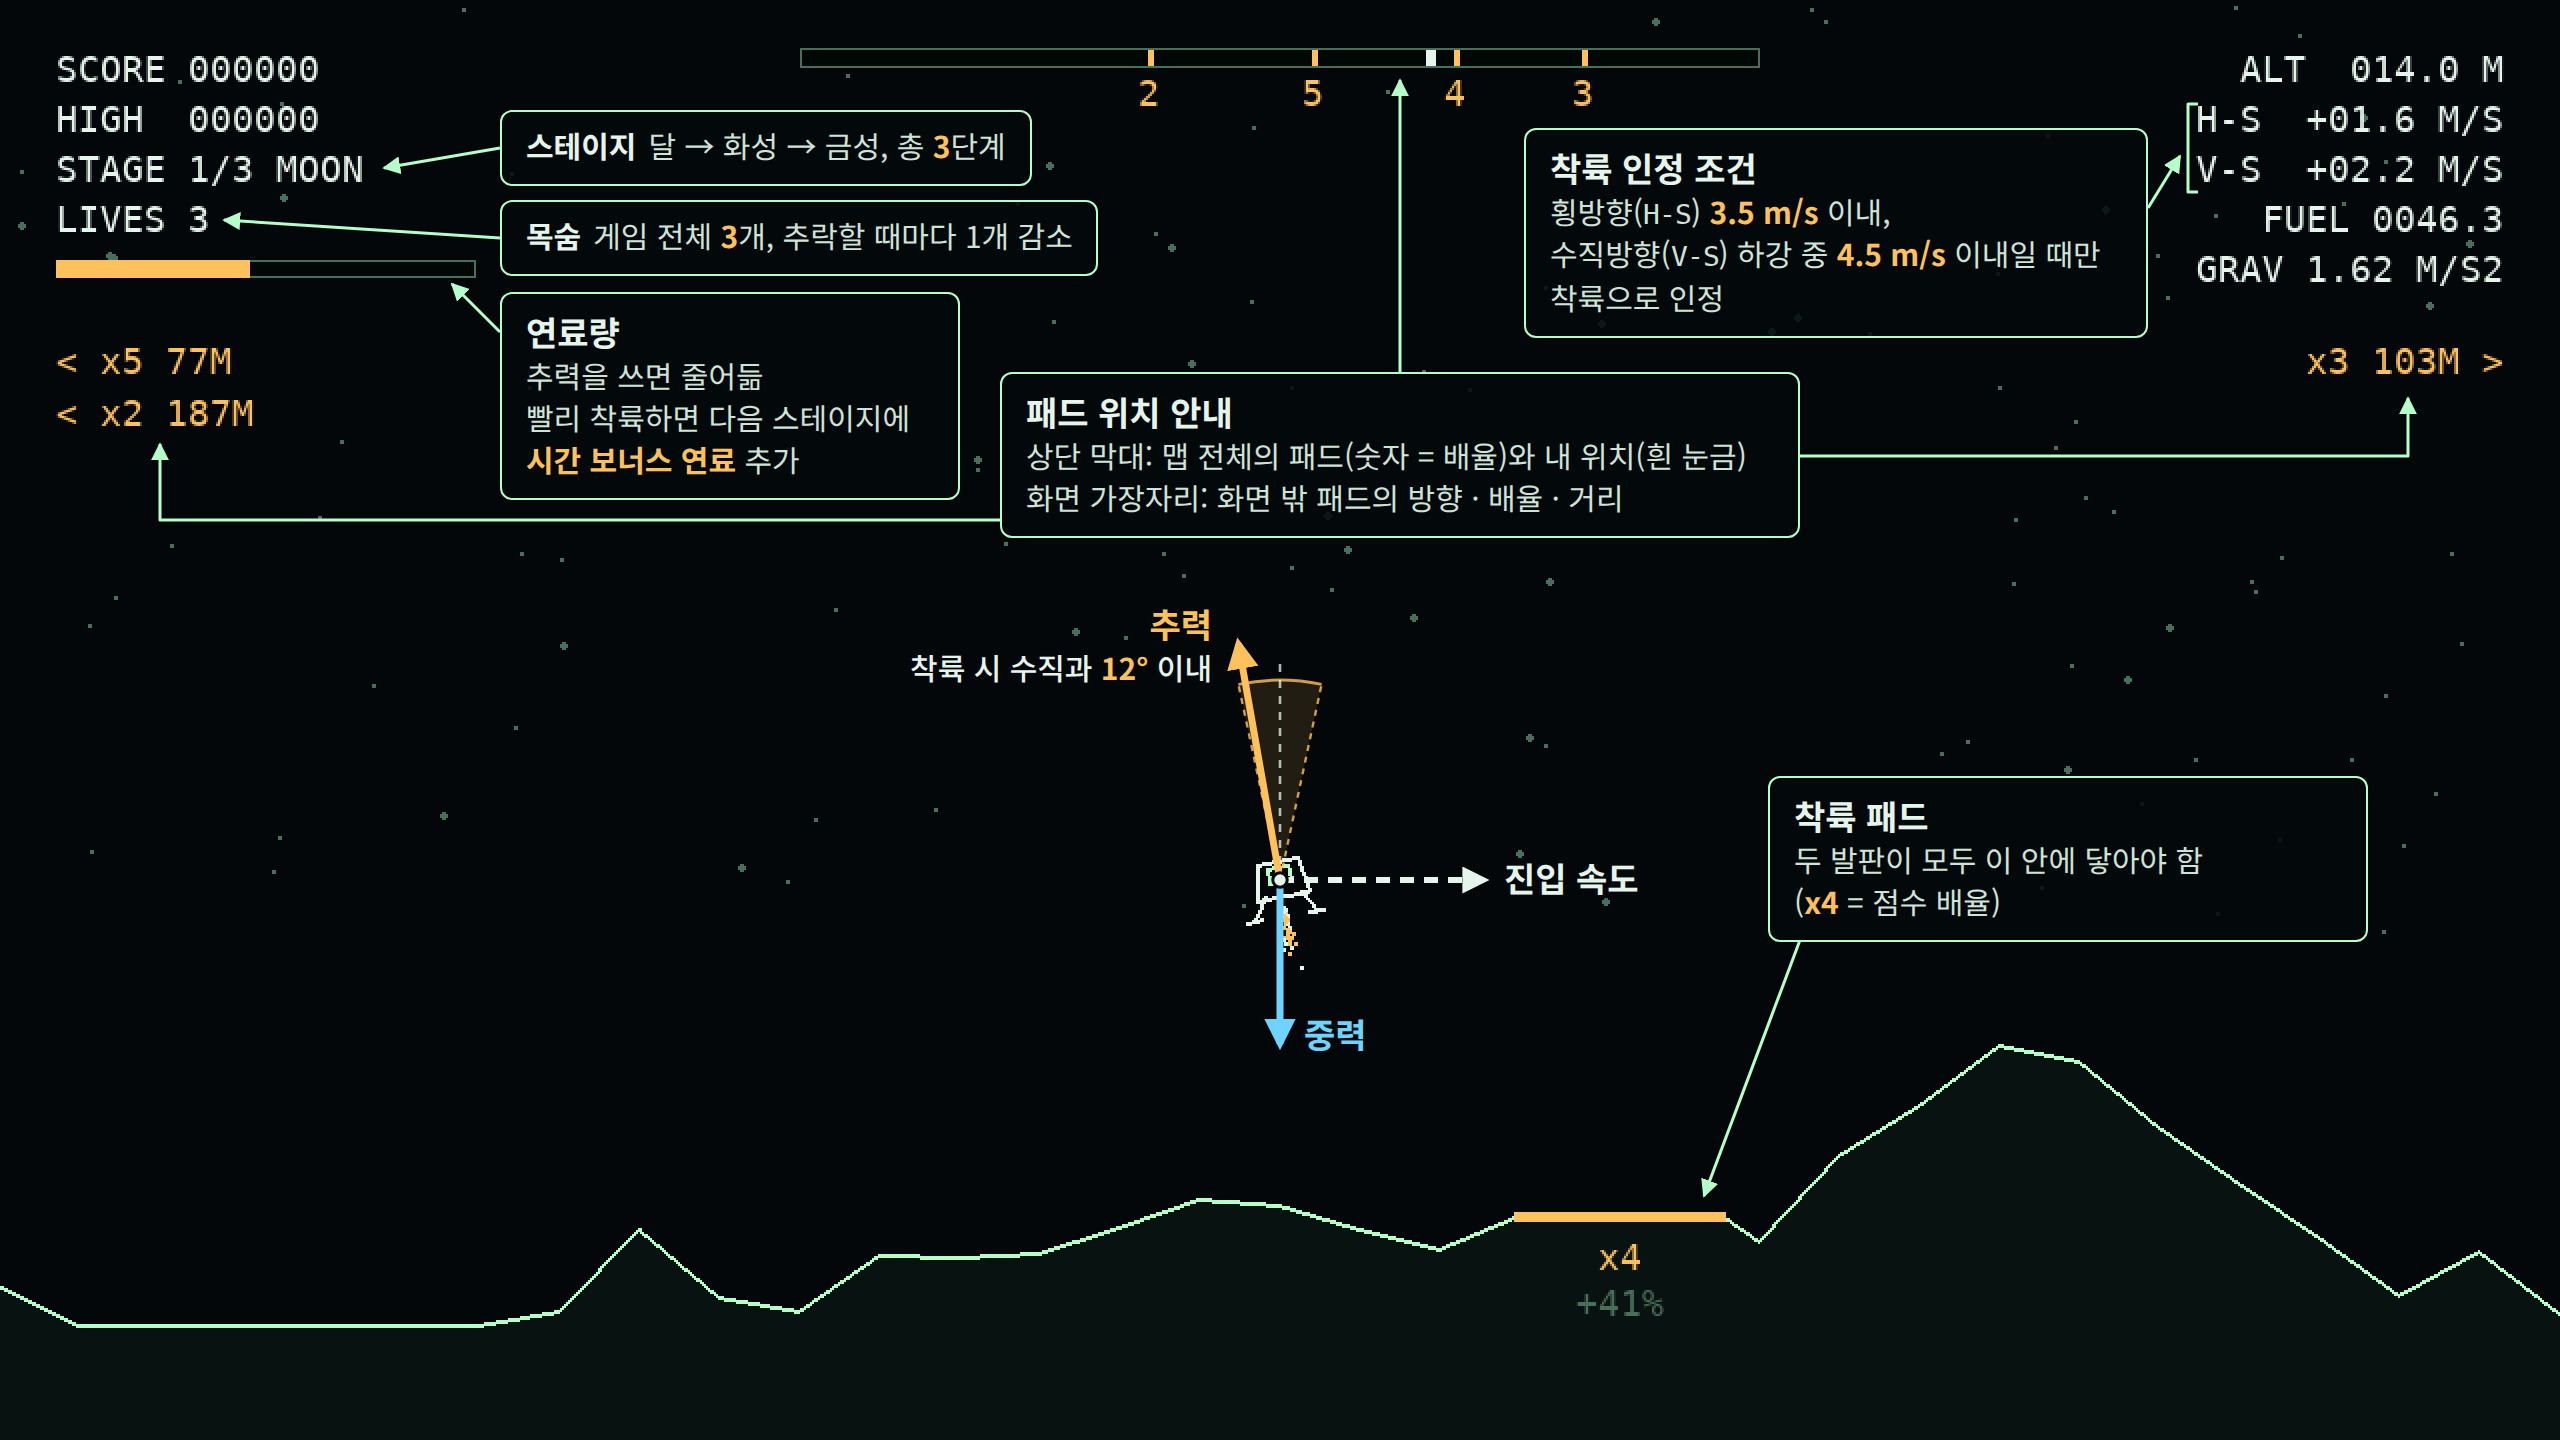
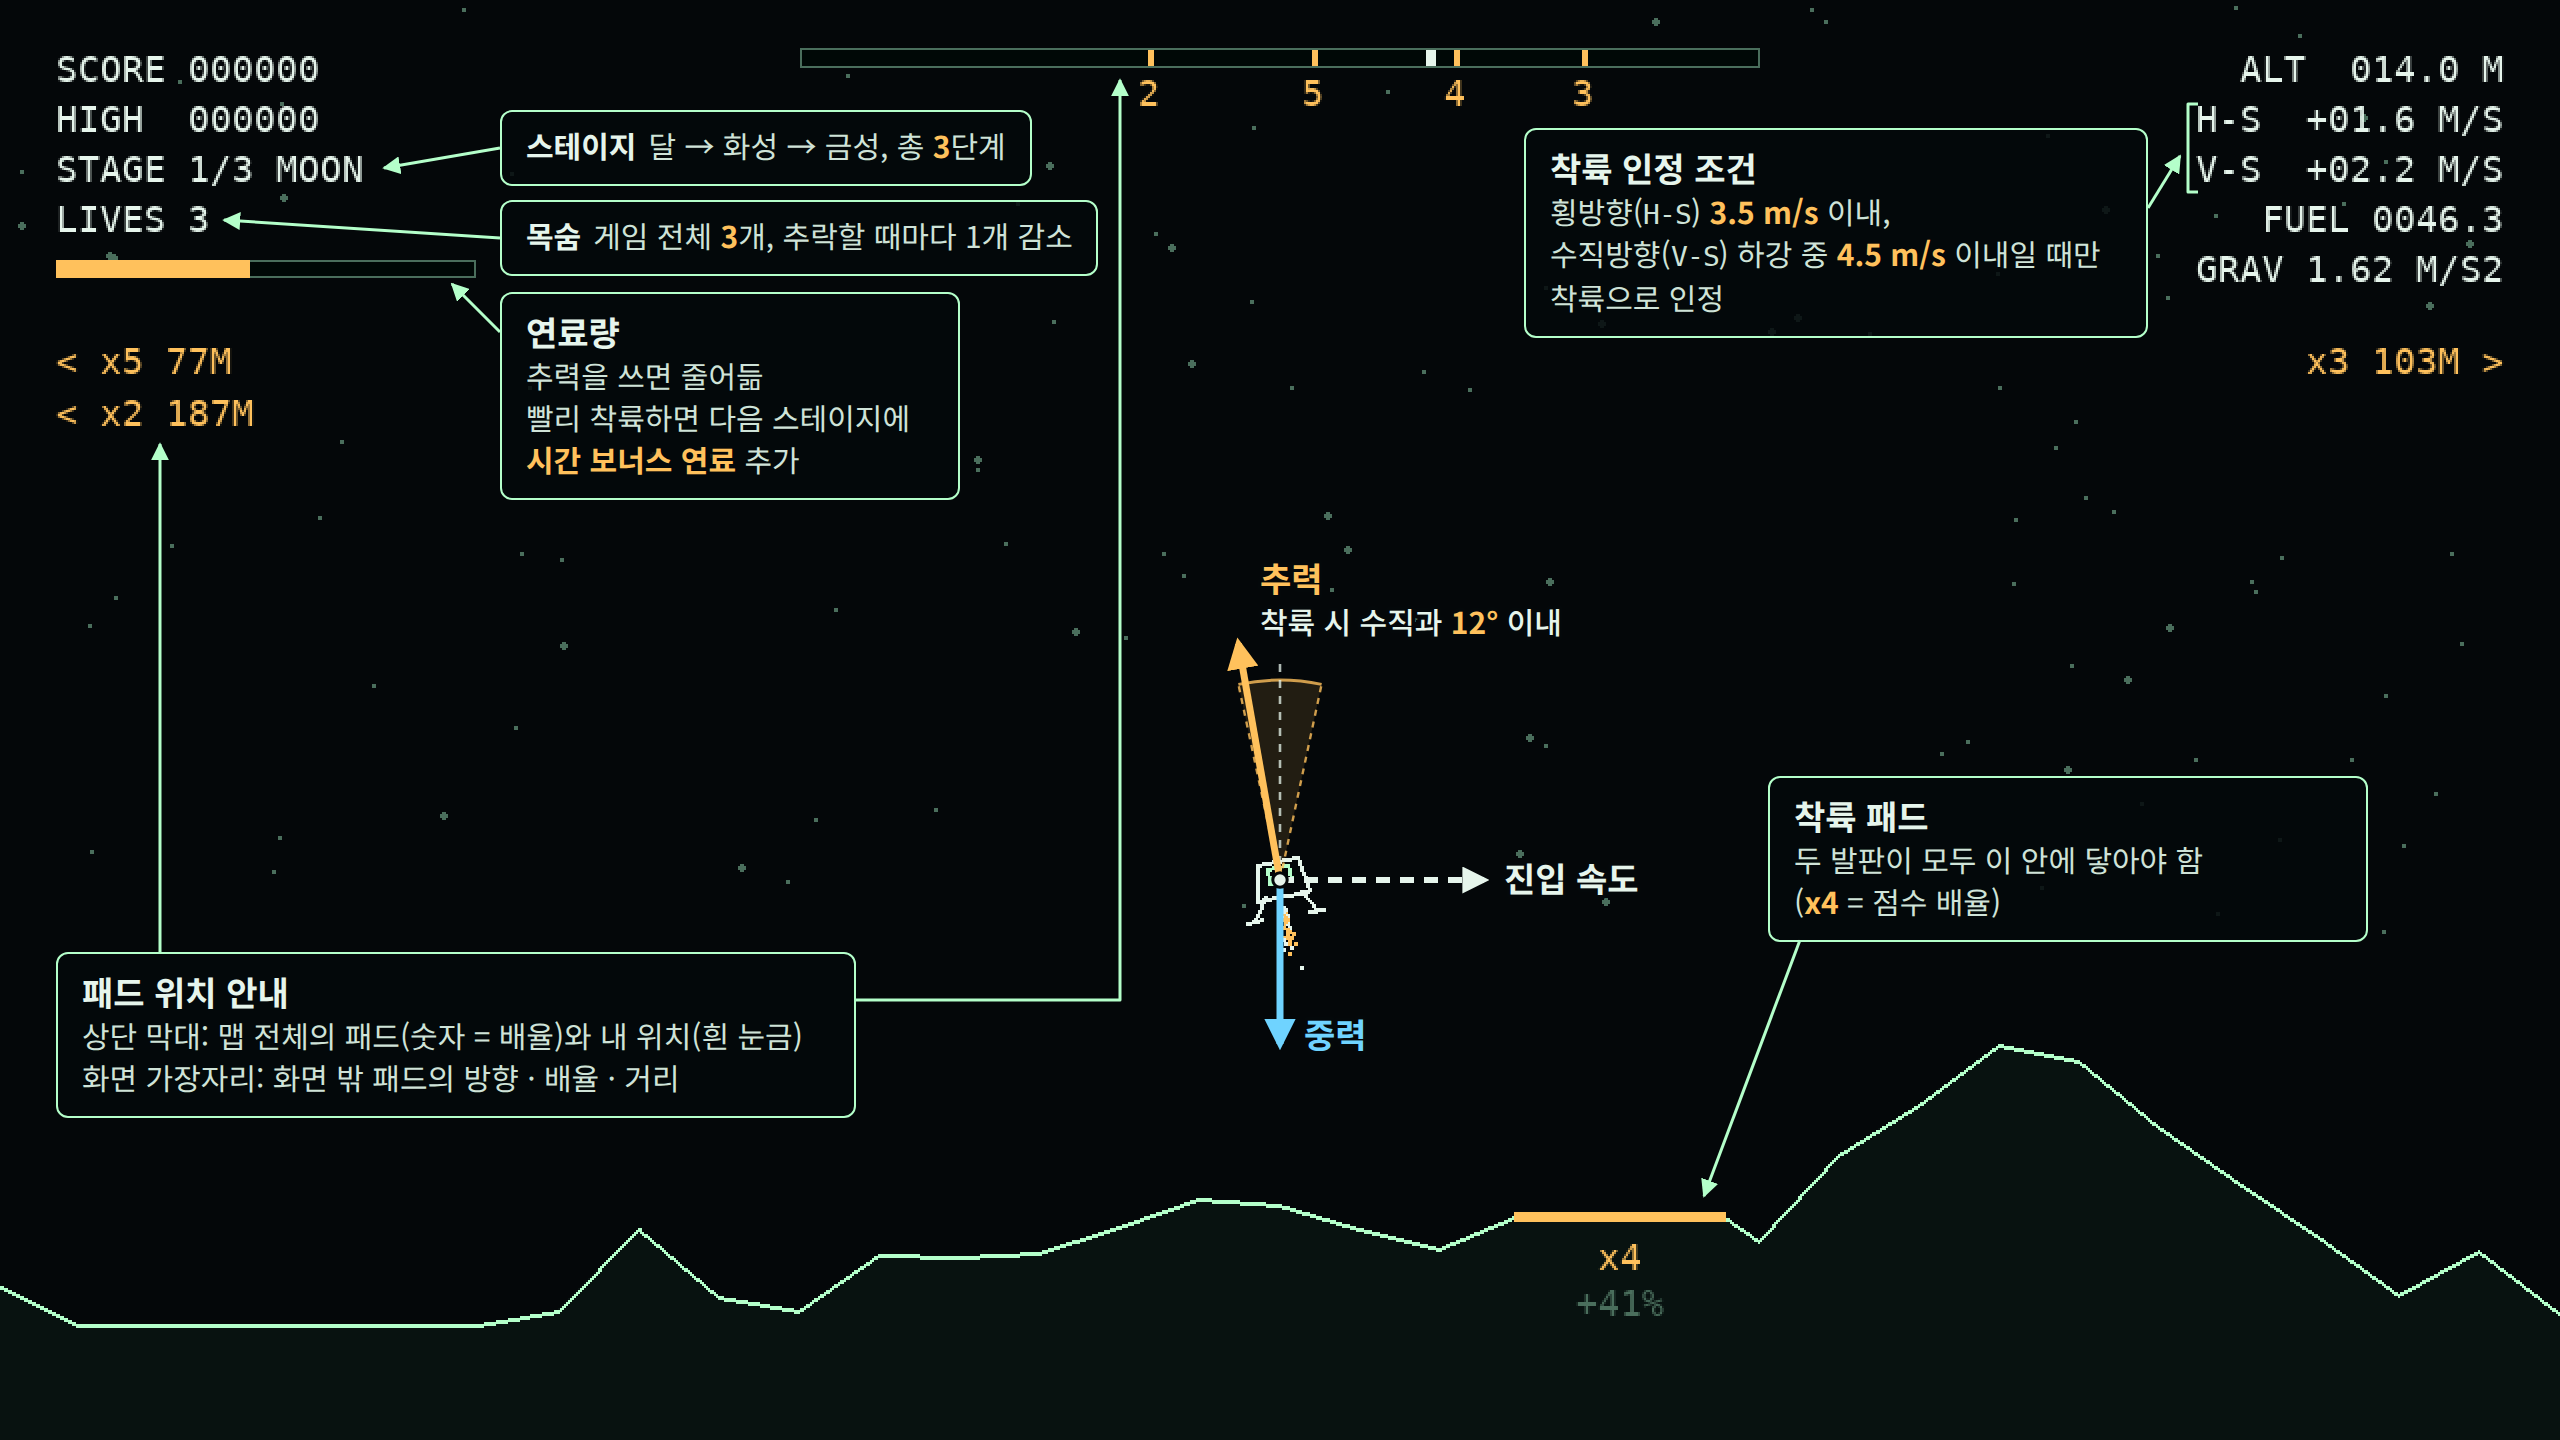
Move the pad-position note to the lower left
The note now points only at the left off-screen pad markers and the
pad radar. The radar arrow runs up the empty sky left of the lander
(x=560) so it crosses neither the lander nor its vectors, and the thrust
label moves to the tip's upper right to keep that path clear.

Claude-Session: https://claude.ai/code/session_01JndWe99yCEU3NwL7sk2eZw

Changed region(s): [[0.3438, 0.25, 0.6875, 0.4688], [0.0312, 0.6562, 0.3125, 0.7812]]

diff --git a/docs/infographic/compact.html b/docs/infographic/compact.html
@@ -72,10 +72,10 @@
       <!-- 비행 계기: H-S·V-S 두 줄을 묶는 괄호 -->
       <path d="M1099,52 L1094,52 L1094,96 L1099,96"/>
       <path d="M1074,104 L1090,78" marker-end="url(#lead)"/>
-      <!-- 패드 위치 안내: 레이더 · 왼쪽 안내 · 오른쪽 안내 -->
-      <path d="M700,186 L700,40" marker-end="url(#lead)"/>
-      <path d="M500,260 L80,260 L80,222" marker-end="url(#lead)"/>
-      <path d="M900,228 L1204,228 L1204,199" marker-end="url(#lead)"/>
+      <!-- 패드 위치 안내 (좌하단): 왼쪽 화면 밖 안내 · 레이더.
+           레이더로 가는 선은 착륙선 왼쪽(x=560)으로 올라가 기체와 벡터를 피한다. -->
+      <path d="M80,476 L80,222" marker-end="url(#lead)"/>
+      <path d="M428,500 L560,500 L560,40" marker-end="url(#lead)"/>
       <!-- 착륙 패드 -->
       <path d="M900,470 L852,598" marker-end="url(#lead)"/>
     </g>
@@ -95,8 +95,8 @@
     <circle cx="640" cy="440" r="3.6" fill="#e6f5ec" stroke="#04080a" stroke-width="1.5"/>
 
     <!-- 벡터 라벨 -->
-    <text class="vlabel" x="606" y="319" text-anchor="end" fill="#ffc15c" font-size="17" font-weight="700">추력</text>
-    <text class="vlabel" x="606" y="340" text-anchor="end" fill="#e6f5ec" font-size="15" font-weight="500">착륙 시 수직과 <tspan fill="#ffc15c" font-weight="700">12°</tspan> 이내</text>
+    <text class="vlabel" x="630" y="296" fill="#ffc15c" font-size="17" font-weight="700">추력</text>
+    <text class="vlabel" x="630" y="317" fill="#e6f5ec" font-size="15" font-weight="500">착륙 시 수직과 <tspan fill="#ffc15c" font-weight="700">12°</tspan> 이내</text>
     <text class="vlabel" x="652" y="524" fill="#6fd3ff" font-size="17" font-weight="700">중력</text>
     <text class="vlabel" x="752" y="446" fill="#e6f5ec" font-size="17" font-weight="700">진입 속도</text>
   </svg>
@@ -114,7 +114,7 @@
     수직방향(<span class="m">V-S</span>) 하강 중 <em>4.5 m/s</em> 이내일 때만<br>
     착륙으로 인정
   </div>
-  <div class="box" style="left:500px;top:186px;width:400px">
+  <div class="box" style="left:28px;top:476px;width:400px">
     <div class="t">패드 위치 안내</div>
     상단 막대: 맵 전체의 패드(숫자 = 배율)와 내 위치(흰 눈금)<br>
     화면 가장자리: 화면 밖 패드의 방향 · 배율 · 거리
